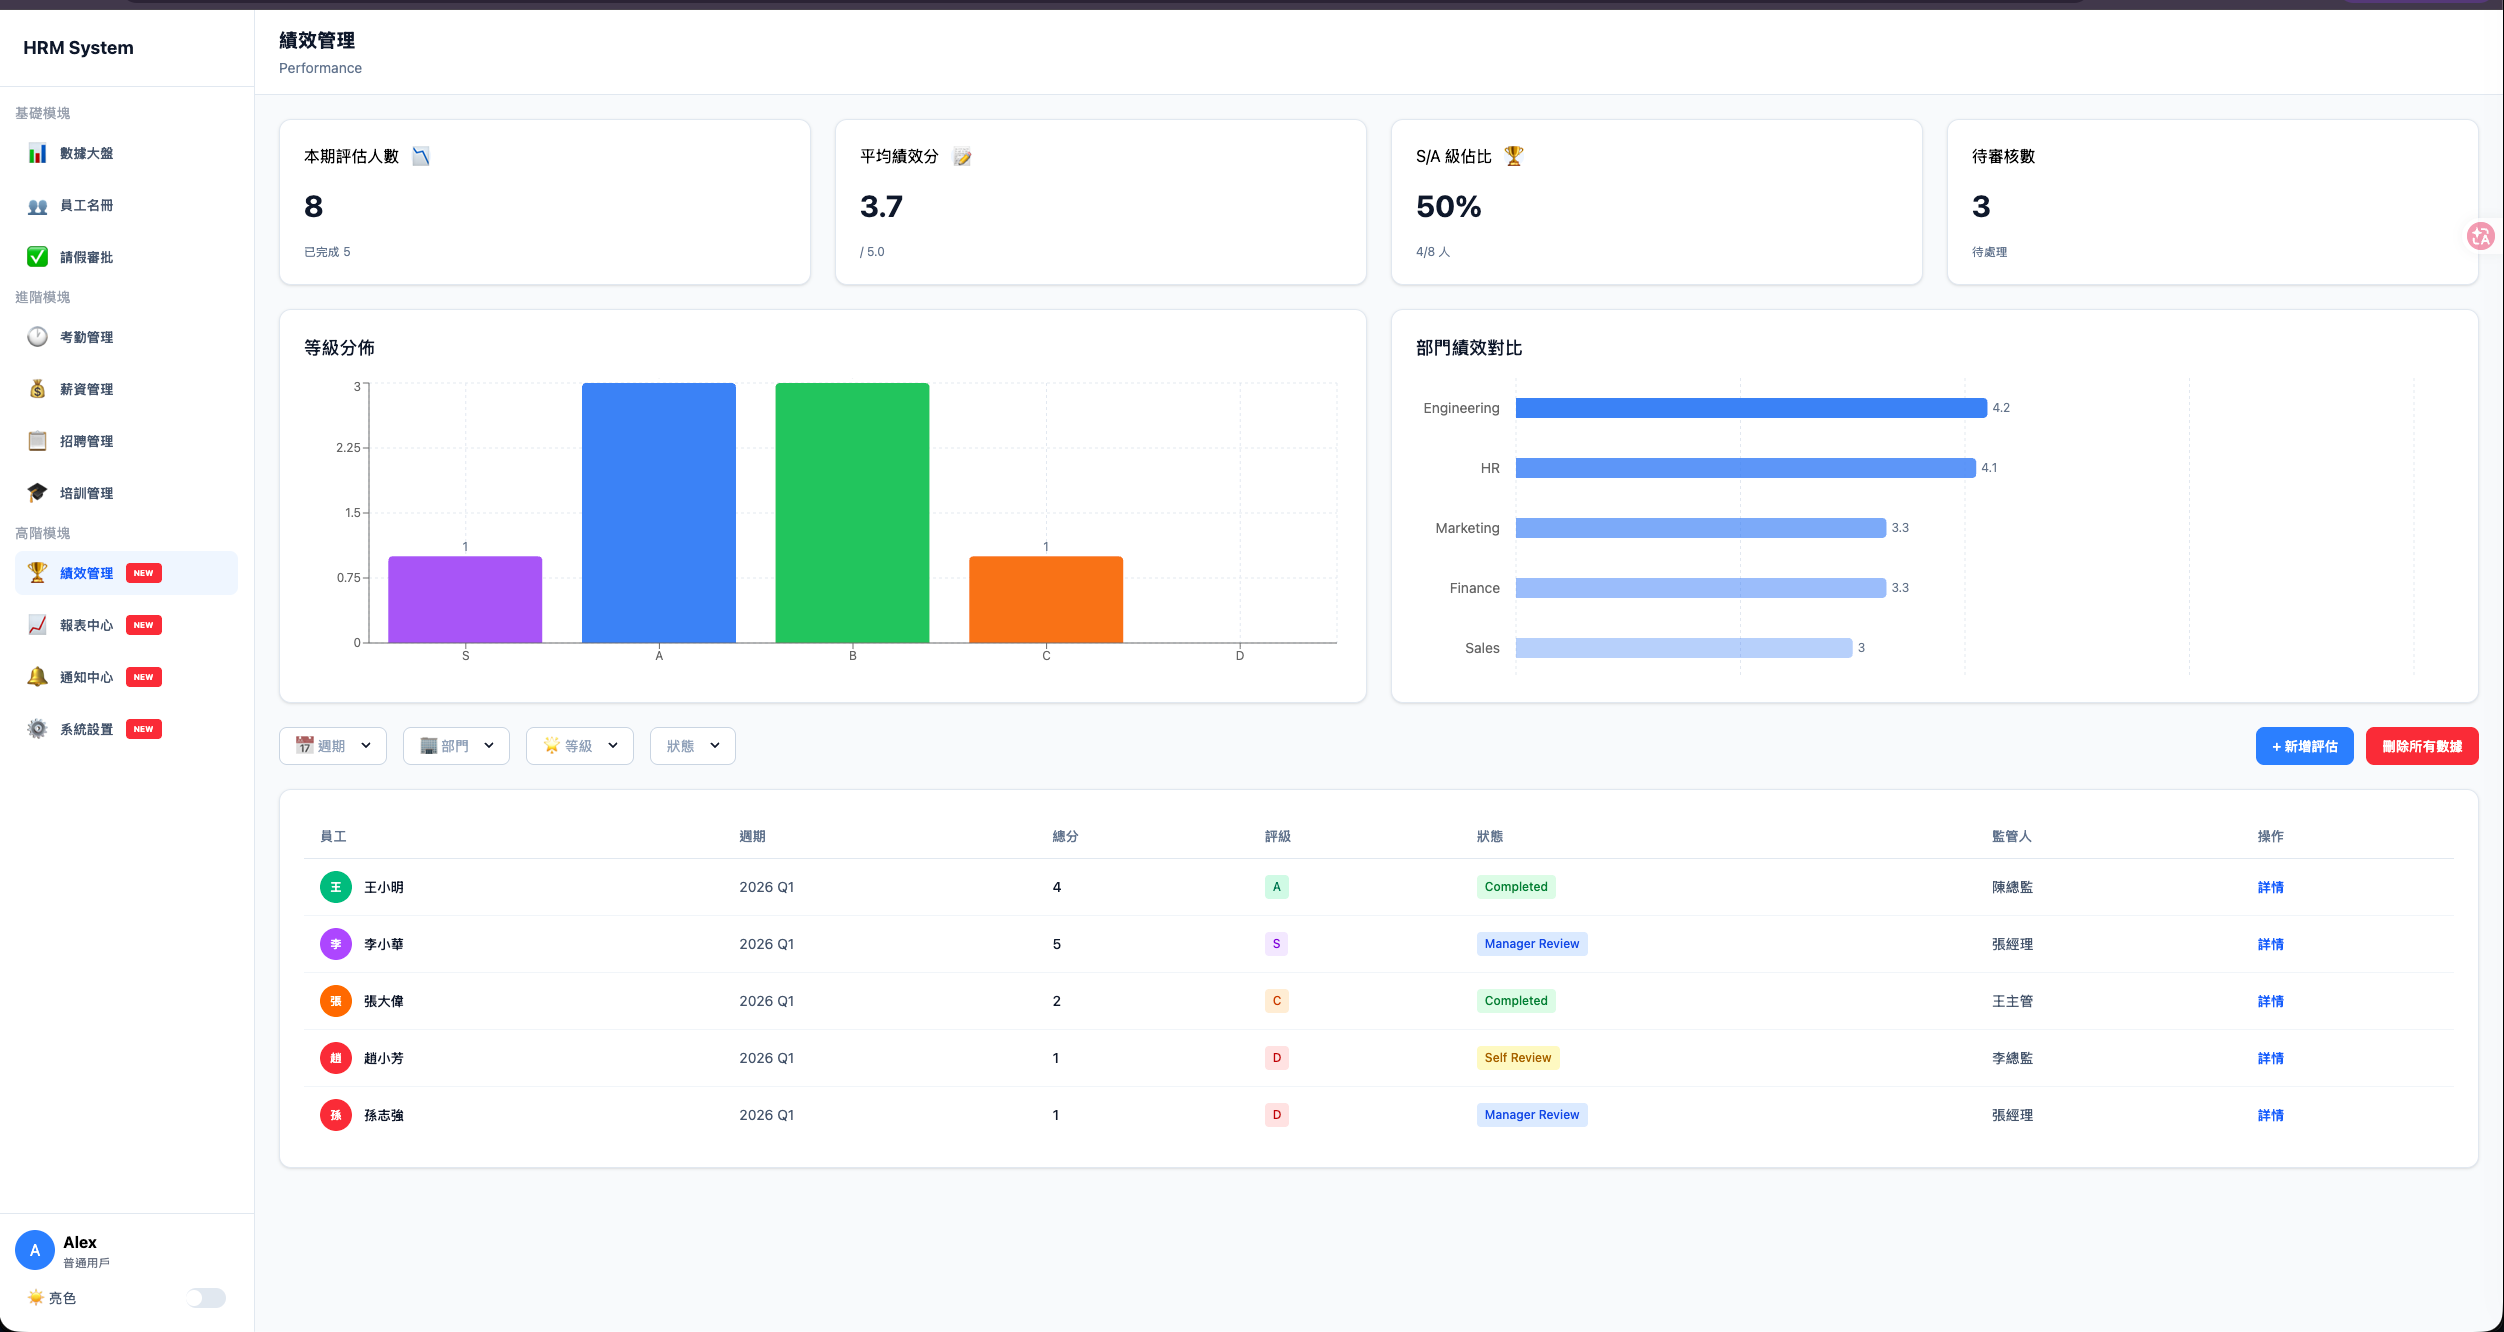
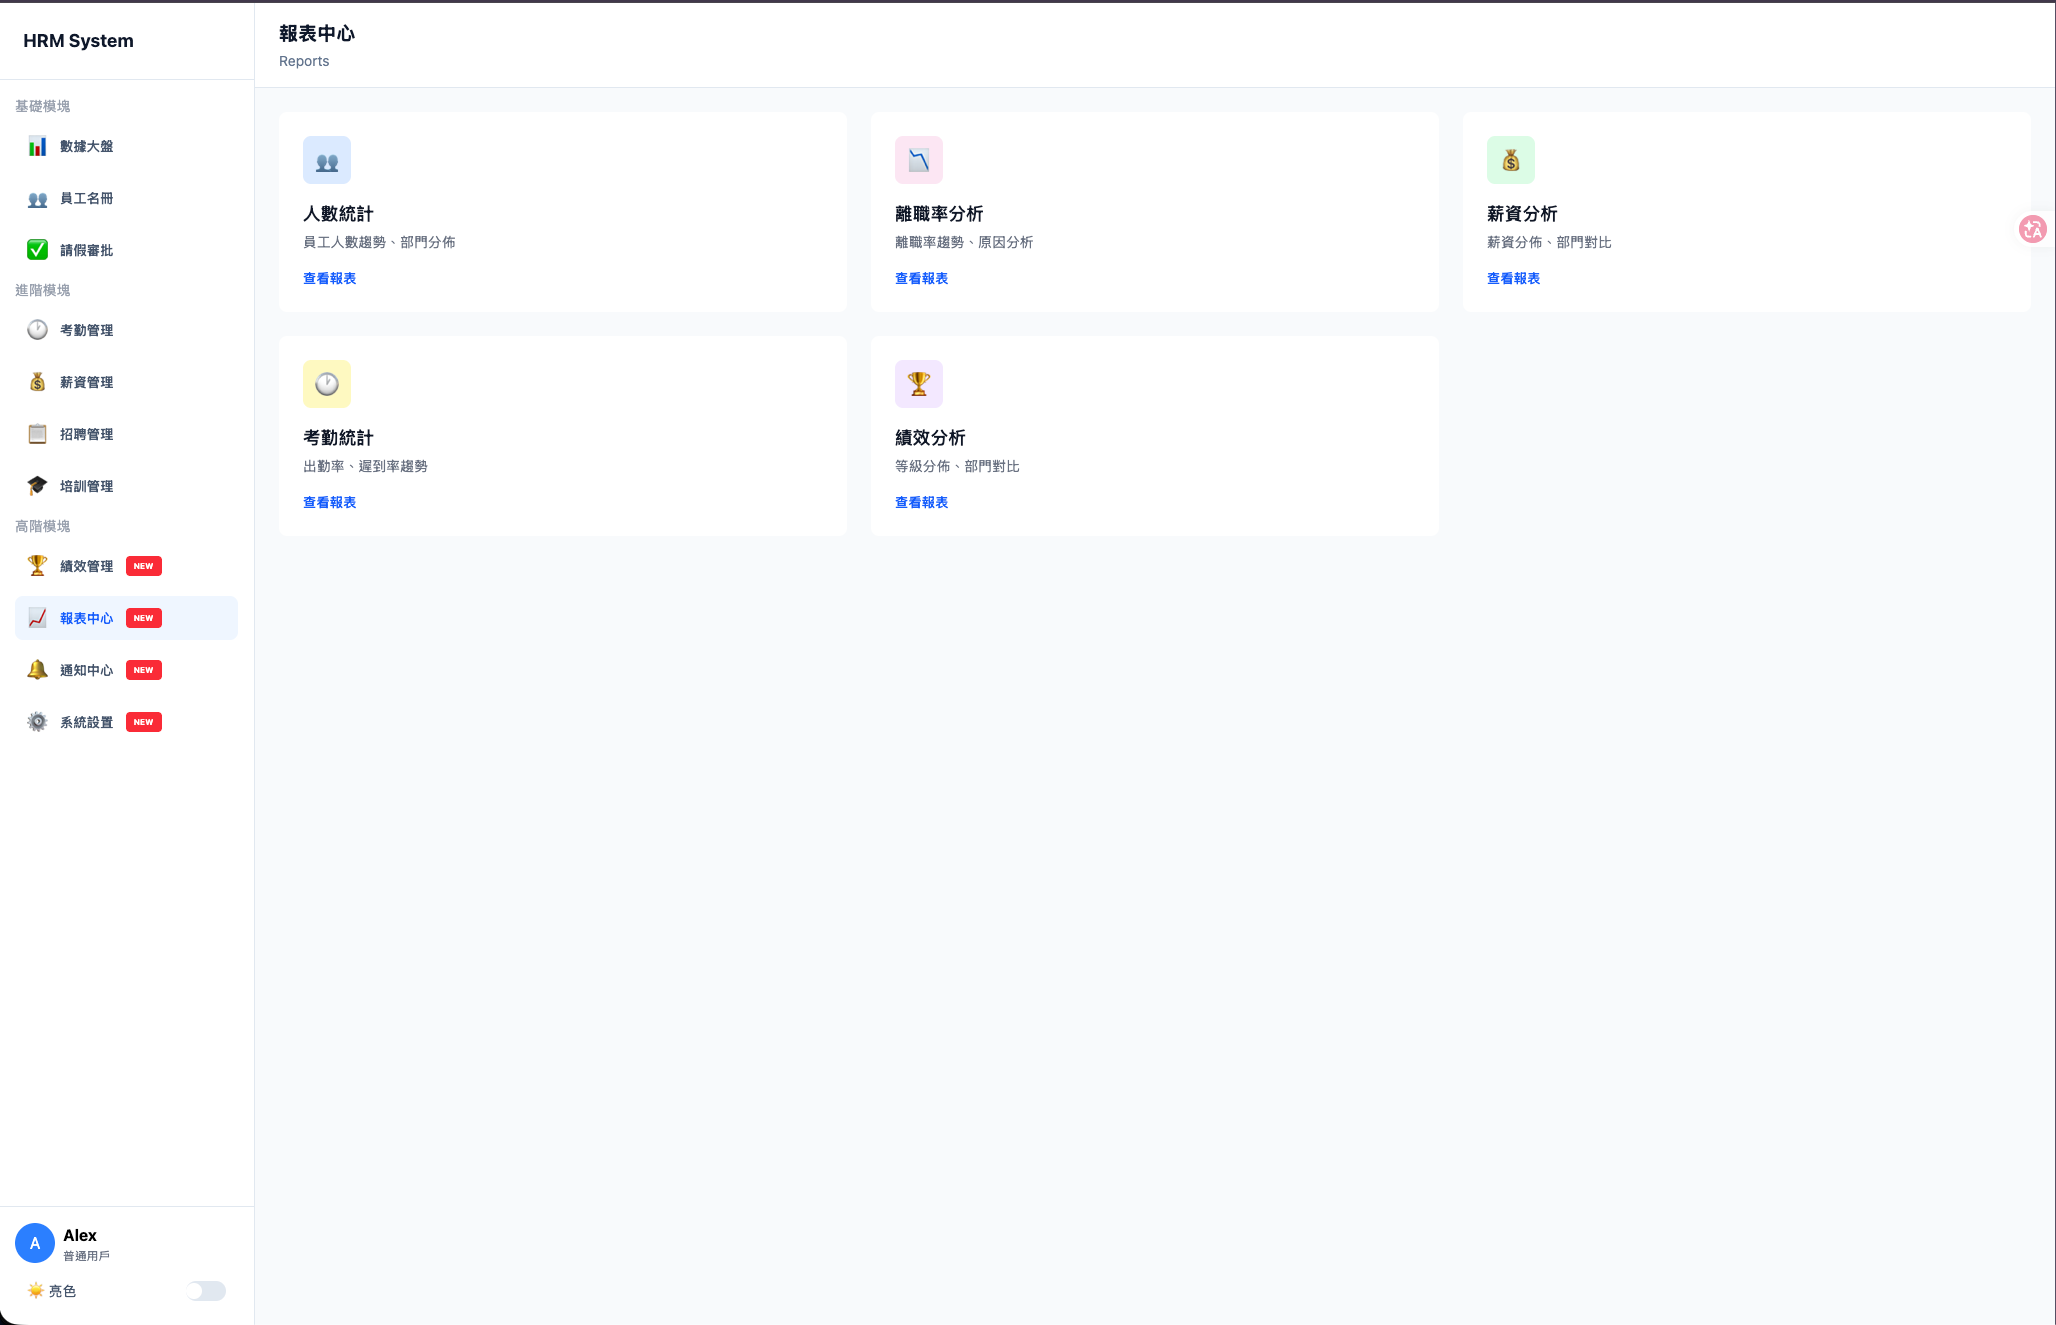
feat: add demo link to README, display login credentials in Login component, and update dev script for concurrent execution

diff --git a/src/app/views/Login.tsx b/src/app/views/Login.tsx
@@ -106,6 +106,8 @@ export const Login = () => {
                         />
                     )}
 
+                    <p className="text-sm text-blue-500 text-center">帳號:admin1, 密碼:111111</p>
+
                     {error && (
                         <p className="text-sm text-red-500 text-center">{error}</p>
                     )}

diff --git a/vite.config.ts b/vite.config.ts
@@ -8,6 +8,8 @@ export default defineConfig({
     tailwindcss(),
   ],
   server: {
+    port: 5174,
+    strictPort: true,
     proxy: {
       '/api': {
         target: 'http://localhost:3001',

diff --git a/README.md b/README.md
@@ -8,6 +8,8 @@
 
 **狀態**：該項目仍在開發中，已部署至 Cloudflare Workers。
 
+**演示地址**：https://hrm-react.hammersuen2002.workers.dev/
+
 ## 技術棧
 
 ### 前端框架
